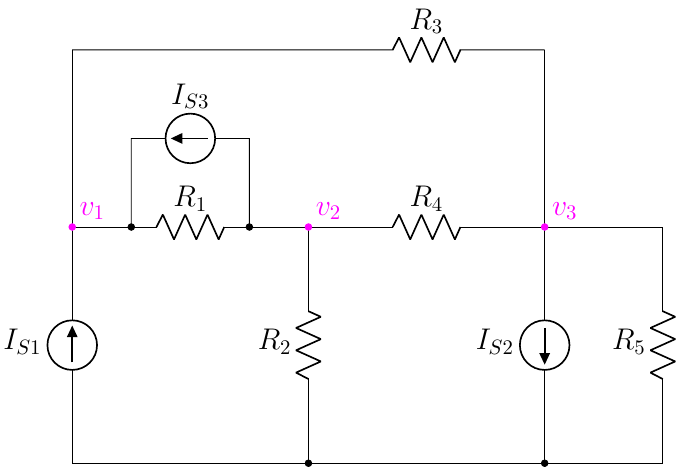
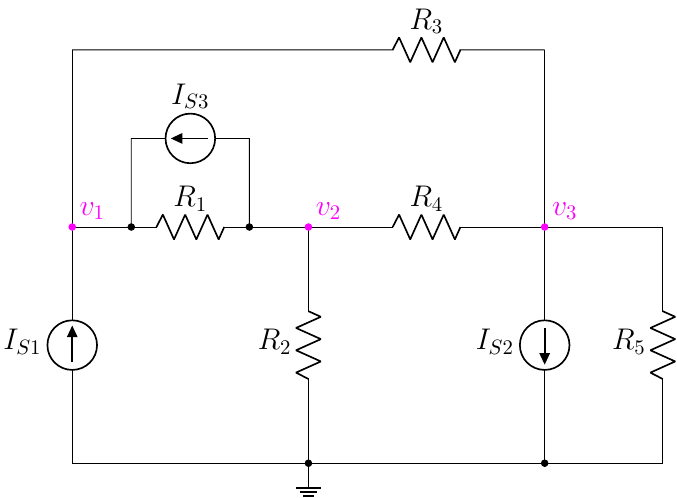
edit 4.13

diff --git a/1.3 Nodal Analysis/4.1 Nodal Analysis/4.13(new).tex b/1.3 Nodal Analysis/4.1 Nodal Analysis/4.13(new).tex
@@ -13,7 +13,7 @@
     \draw (10,0) to[R, l=\rname{5}] ++(0,4) ;
 
     %%% horizontal %%%
-    \draw(0,0)  to[short,-*] ++(4,0) 
+    \draw(0,0)  to[short,-*] ++(4,0)  node[ground]{}
                 to[short,-*] ++(4,0) 
                 to[short] ++(2,0);
 
